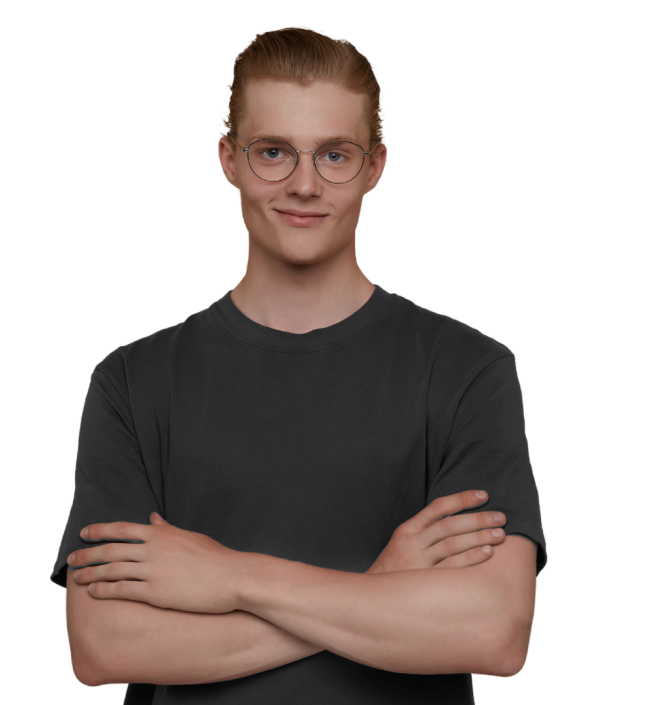
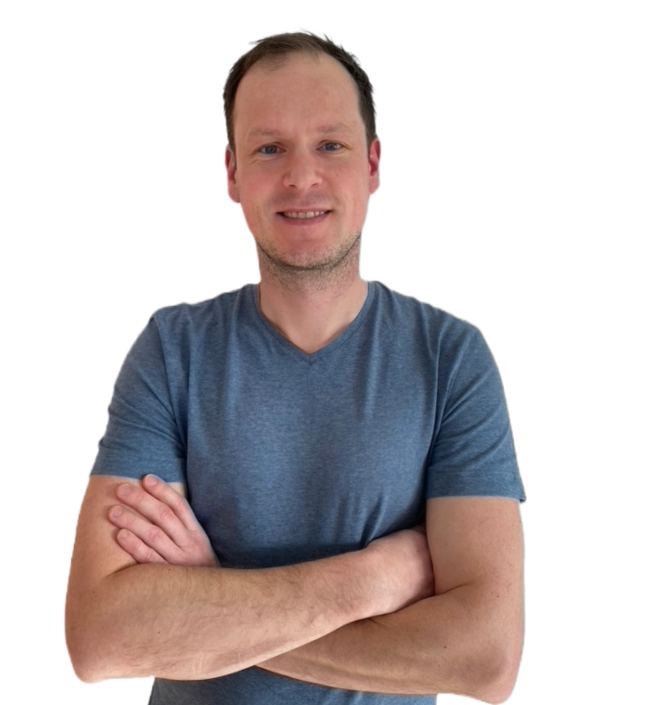
style: change profile-pictures and improve footer

diff --git a/src/app/shared/components/footer/footer.component.html b/src/app/shared/components/footer/footer.component.html
@@ -53,7 +53,7 @@
         (mouseout)="isHoveredPrivacy = false"
       >
         <a class="imprint" href="/privacy-policy">{{
-          "FORM_PRIVACY1" | translate
+          "PRIVACY_POLICY" | translate
         }}</a>
         <svg
           [style.visibility]="isHoveredPrivacy ? 'visible' : 'hidden'"
@@ -104,7 +104,7 @@
     (mouseout)="isHoveredPrivacy = false"
   >
     <a class="imprint" href="/privacy-policy">{{
-      "FORM_PRIVACY1" | translate
+      "PRIVACY_POLICY" | translate
     }}</a>
     <svg
       [style.visibility]="isHoveredPrivacy ? 'visible' : 'hidden'"
